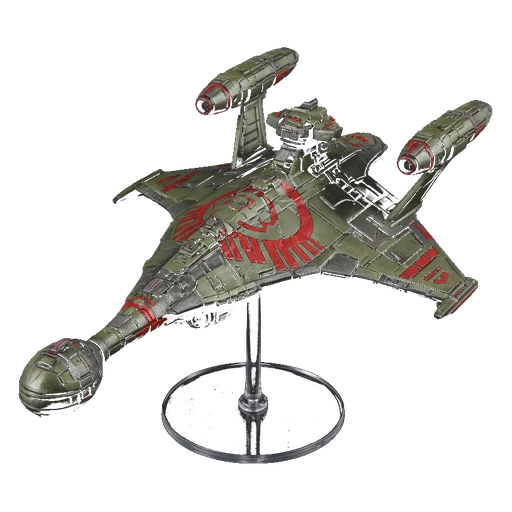
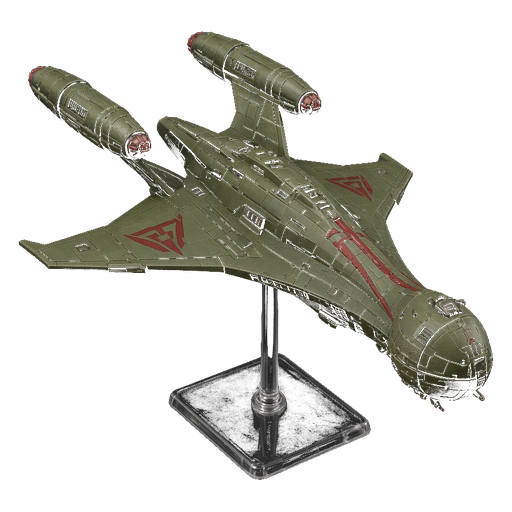
Fix facing bearings and Miranda-class silhouette
Use true isometric hex bearings for facing chevrons and sprite mirrors,
and replace the Miranda art with a Reliant-style saucer, under-slung
nacelles, and aft rollbar. Align other ships with bow-right art.

diff --git a/js/board.js b/js/board.js
@@ -253,21 +253,44 @@ function drawHexIso(ctx, col, row, originX, originY, camera, fill, stroke) {
   }
 }
 
-/** Screen angles for facings E, NE, NW, W, SW, SE (canvas Y-down). */
-const FACING_RAD = [0, -Math.PI / 3, (-2 * Math.PI) / 3, Math.PI, (2 * Math.PI) / 3, Math.PI / 3];
 const FACING_LABEL = ['E', 'NE', 'NW', 'W', 'SW', 'SE'];
+
+/** Even-column neighbor deltas for facings 0=E … 5=SE (matches neighbors()). */
+const FACING_DELTA_EVEN = [
+  [+1, 0],
+  [+1, -1],
+  [0, -1],
+  [-1, -1],
+  [-1, 0],
+  [0, +1],
+];
+
+/**
+ * Screen-space bearing of a hex facing on the isometric board
+ * (points toward the neighboring hex in that facing).
+ */
+function facingScreenAngle(facing) {
+  const [dc, dr] = FACING_DELTA_EVEN[((facing % 6) + 6) % 6];
+  const from = flatCenter(2, 2);
+  const to = flatCenter(2 + dc, 2 + dr);
+  const a = isoProject(from.wx, from.wy);
+  const b = isoProject(to.wx, to.wy);
+  return Math.atan2(b.iy - a.iy, b.ix - a.ix);
+}
 
 /**
  * Draw 3/4 isometric mini sprites upright on their stands.
- * Only mirror for westward headings — full yaw tipped the flight stands.
+ * Art is authored with the bow toward screen-right; mirror when the
+ * hex facing points left on the iso board. Chevron uses true iso bearing.
  */
 function drawShipSprite(ctx, ship, x, y, selected, factionColor, camera) {
   const img = shipImage(ship.typeId);
   const heavy = ship.typeId === 'ca' || ship.typeId === 'd7';
   const size = HEX * camera.zoom * (heavy ? 1.05 : 0.9);
   const facing = ((ship.facing % 6) + 6) % 6;
-  const heading = FACING_RAD[facing];
-  const mirror = facing === 2 || facing === 3 || facing === 4; // NW, W, SW
+  const heading = facingScreenAngle(facing);
+  // Mirror when the facing's screen vector points left (W / SW / SE)
+  const mirror = Math.cos(heading) < 0;
 
   ctx.save();
   ctx.beginPath();
@@ -298,17 +321,17 @@ function drawShipSprite(ctx, ship, x, y, selected, factionColor, camera) {
     ctx.fill();
   }
 
-  // Facing chevron on the base — matches Orders panel heading
+  // Facing chevron — same bearing as hex neighbors / firing arcs
   const s = Math.max(0.85, camera.zoom);
-  const bx = x + Math.cos(heading) * size * 0.4;
-  const by = y + Math.sin(heading) * size * 0.28;
+  const bx = x + Math.cos(heading) * size * 0.42;
+  const by = y + Math.sin(heading) * size * 0.42;
   ctx.save();
   ctx.translate(bx, by);
   ctx.rotate(heading);
   ctx.beginPath();
-  ctx.moveTo(7 * s, 0);
-  ctx.lineTo(-5 * s, 4.5 * s);
-  ctx.lineTo(-5 * s, -4.5 * s);
+  ctx.moveTo(8 * s, 0);
+  ctx.lineTo(-5.5 * s, 5 * s);
+  ctx.lineTo(-5.5 * s, -5 * s);
   ctx.closePath();
   ctx.fillStyle = selected ? '#ffe08a' : '#f2f7fb';
   ctx.strokeStyle = 'rgba(0,0,0,0.65)';

diff --git a/js/sw.js b/js/sw.js
@@ -1,0 +1,41 @@
+const CACHE = 'starfleet-tactics-v15';
+const ASSETS = [
+  './',
+  './index.html',
+  './css/styles.css',
+  './js/app.js',
+  './js/setup.js',
+  './js/game.js',
+  './js/board.js',
+  './js/data.js',
+  './js/ships.js',
+  './js/fx.js',
+  './manifest.json',
+  './icons/icon-192.png',
+  './icons/icon-512.png',
+  './assets/ships/ca.png',
+  './assets/ships/ff.png',
+  './assets/ships/d7.png',
+  './assets/ships/f5.png'
+];
+
+self.addEventListener('install', (event) => {
+  event.waitUntil(caches.open(CACHE).then((cache) => cache.addAll(ASSETS)));
+  self.skipWaiting();
+});
+
+self.addEventListener('activate', (event) => {
+  event.waitUntil(
+    caches.keys().then((keys) =>
+      Promise.all(keys.filter((k) => k !== CACHE).map((k) => caches.delete(k)))
+    )
+  );
+  self.clients.claim();
+});
+
+self.addEventListener('fetch', (event) => {
+  if (event.request.method !== 'GET') return;
+  event.respondWith(
+    caches.match(event.request).then((cached) => cached || fetch(event.request))
+  );
+});

diff --git a/js/ships.js b/js/ships.js
@@ -1,10 +1,10 @@
 /** Ship sprite loader — original stylized starship art (not official Trek IP). */
 
 const SRC = {
-  ca: 'assets/ships/ca.png?v=trek1',
-  ff: 'assets/ships/ff.png?v=trek1',
-  d7: 'assets/ships/d7.png?v=trek1',
-  f5: 'assets/ships/f5.png?v=trek1',
+  ca: 'assets/ships/ca.png?v=trek2',
+  ff: 'assets/ships/ff.png?v=trek2',
+  d7: 'assets/ships/d7.png?v=trek2',
+  f5: 'assets/ships/f5.png?v=trek2',
 };
 
 const cache = new Map();

diff --git a/sw.js b/sw.js
@@ -1,4 +1,4 @@
-const CACHE = 'starfleet-tactics-v14';
+const CACHE = 'starfleet-tactics-v15';
 const ASSETS = [
   './',
   './index.html',
